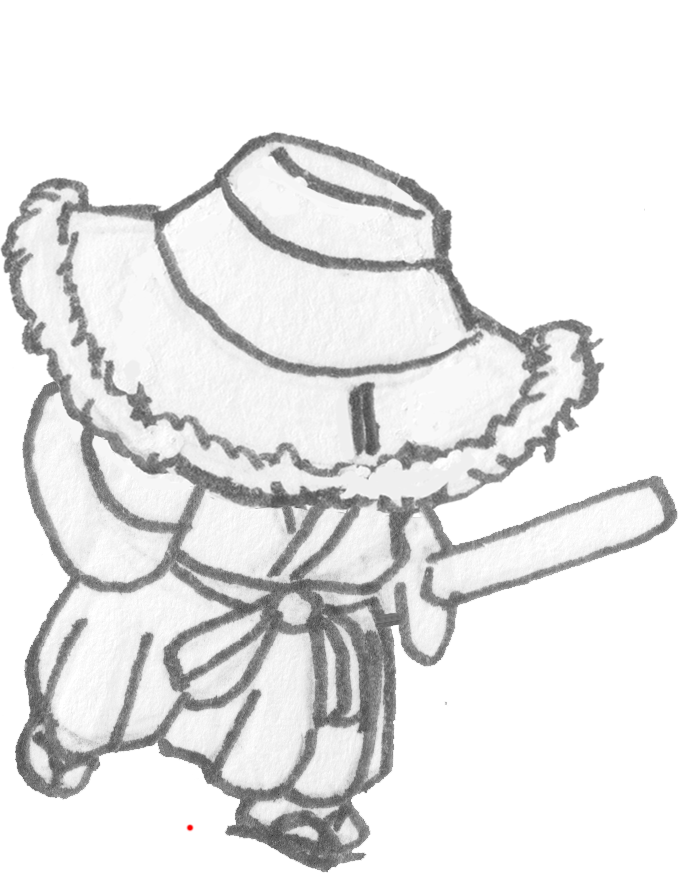
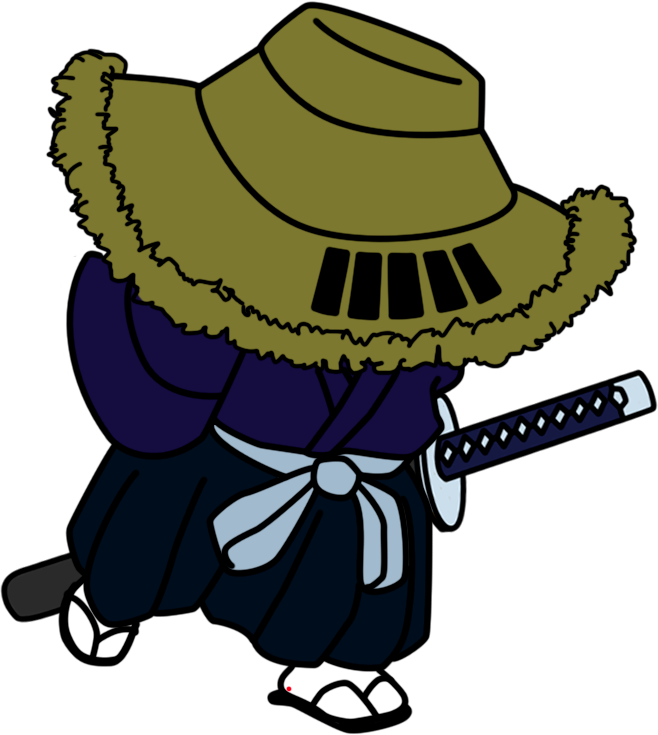
add color anim run and some scripts

diff --git a/YOSHI/YOSHI/Assets/Scripts/yoshi.cs b/YOSHI/YOSHI/Assets/Scripts/yoshi.cs
@@ -1,0 +1,114 @@
+using System.Collections;
+using System.Collections.Generic;
+using UnityEngine;
+
+public class yoshi : MonoBehaviour
+{
+  private float movement;
+    public float Speed;
+    //public Transform feetPos;
+    //public float checkRadius;
+    public LayerMask whatIsGround;
+
+    private Rigidbody2D rb;
+    private Animator anim;
+
+    //jump
+    public float jumpForce;
+    //private float jumpTimeCounter;
+    //public float jumpTime;
+    private bool isJumping;
+    private bool doubleJump;
+
+
+    void Start(){
+        rb = GetComponent<Rigidbody2D>();
+        anim = GetComponent<Animator>();
+    }
+    
+    void FixedUpdate(){
+        //Move();
+    }
+
+    void Update(){
+        Move();
+        Jump();
+        
+    }
+
+    void Move(){
+        movement = Input.GetAxisRaw("Horizontal");
+        //transform.position += movement * Time.deltaTime * Speed;
+        rb.velocity = new Vector2(Speed*movement,rb.velocity.y);
+        if(movement>0f){
+            anim.SetBool("RUN",true);  
+            transform.eulerAngles = new Vector3(0f,0f,0f);
+        }   
+        else{
+            if(movement<0f){
+                anim.SetBool("RUN",true);
+            transform.eulerAngles = new Vector3(0f,180f,0f);
+            }
+            else{
+                anim.SetBool("RUN",false);
+            }
+        }
+    }
+    //(DAI)depois ajeitar isso, todos os verificadores de apertar botao devem estar no update e chamar a função especifica
+    //DAI CRIAR A LAYER PARA AS COISAS TIPO WALL E GROUND E DEPOIS FAZER TAGS PARA CADA UM ESPECIFICA
+    void Jump(){
+        if(!isJumping && Input.GetButtonDown("Jump")){
+            rb.velocity = Vector2.up * jumpForce;
+            isJumping=true;
+            //jumpTimeCounter=jumpTime;
+            doubleJump=true;
+            anim.SetBool("JUMP",true);
+        }
+        else{
+            if(Input.GetButtonDown("Jump") && doubleJump){
+                    doubleJump=false;
+                    rb.velocity = Vector2.up * jumpForce;
+                    //jumpTimeCounter=jumpTime;
+                    anim.SetBool("DOUBLE JUMP",true);
+                    isJumping = true;
+                }
+            
+            if(Input.GetButtonUp("Jump") && rb.velocity.y > 0){
+                //isJumping=false;
+                rb.velocity = Vector2.zero;
+                //Debug.Log(rb.velocity.y.ToString());
+            }
+        }
+    }
+    
+    
+    //BUGADO QUANDO PULA ENCOSTADO NA PAREDE, PORQUE ELE NÃO SAI, VAI PRECISAR DIFERENCIAR FLOOR E WALL
+    void OnCollisionEnter2D(Collision2D other){
+        
+        
+    }
+    //DAI CIRCLE COLLIDER PRA CONSEGUIR OPULAR DA BEIRADA
+    void OnTriggerEnter2D(Collider2D other){
+        //if(Physics2D.OverlapCircle(feetPos.position,checkRadius,whatIsGround){
+        if(other.gameObject.layer == 8){
+            Ground();
+        }
+        
+    }
+    void OnTriggerExit2D(Collider2D other){
+        if(other.gameObject.layer == 8){
+            anim.SetBool("JUMP",true);
+            doubleJump=true;
+            isJumping=true;
+        }
+        
+    }
+    void Ground(){
+        
+        anim.SetBool("JUMP",false);
+        anim.SetBool("DOUBLE JUMP",false);
+        isJumping = false;
+        doubleJump=false;
+        
+    }
+}

diff --git a/YOSHI/YOSHI/Assets/Scripts/GameController.cs b/YOSHI/YOSHI/Assets/Scripts/GameController.cs
@@ -1,0 +1,18 @@
+using System.Collections;
+using System.Collections.Generic;
+using UnityEngine;
+
+public class GameController : MonoBehaviour
+{
+    // Start is called before the first frame update
+    void Start()
+    {
+        
+    }
+
+    // Update is called once per frame
+    void Update()
+    {
+        
+    }
+}
